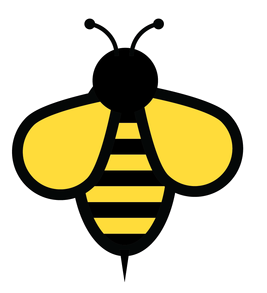
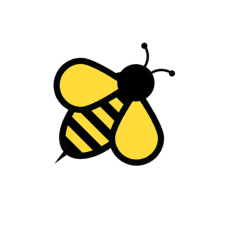
Debug

diff --git a/Frontend/src/UI Components/PostCreator.js b/Frontend/src/UI Components/PostCreator.js
@@ -4,6 +4,7 @@ import './PostCreator.css';
 export default function PostCreator(props) {
   const beeName = useRef('');
   const bzzBody = useRef('');
+  const refreshHome = useRef(false);
 
   const handleChange = e => {
     if (e.target.name === 'beeName') {
@@ -37,12 +38,12 @@ export default function PostCreator(props) {
         body: `beeName=${beeName.current}&bzzBody=${bzzBody.current}`,
       });
 
-      let wait500ms = new Promise(resolve => {
+      /* let wait500ms = new Promise(resolve => {
         setTimeout(() => resolve('done'), 500);
-      });
+      }); */
 
       if (request.ok) {
-        await wait500ms;
+        /* await wait500ms; */
         document.getElementById('grayedout').style.display = 'none';
       }
       // TODO: Else -> handle server error
@@ -80,8 +81,10 @@ export default function PostCreator(props) {
                 className='submit'
                 value='Post'
                 onClick={() => {
-                  props.onPostCreated(true);
-                  setTimeout(() => props.onPostCreated(false), 500)
+                  // When you click the button the state of the home component changes, and so does the
+                  // home components itself, showing the post that you posted. 
+                  props.onPostCreated(refreshHome.current);
+                  refreshHome.current = !refreshHome.current;
                 }}
               ></input>
             </div>

diff --git a/Frontend/src/components/Header.js b/Frontend/src/components/Header.js
@@ -11,7 +11,7 @@ export default function Header() {
         <img src={Logo} alt='Logo' id='logo' />
       </Link>
         <p id='pagetitle'>{currentPage}</p>
-      {currentPage === "Home" ? <h1 className="beeyou-title">Welcome on BeeYou</h1> : null}
+      {currentPage === "Home" ? <h1 className="beeyou-title">BeeYou</h1> : null}
       <Link to='/profile' id='profile-link' onClick={() => setCurrentPage('Profile')}>
         <p id='text'>
           Profile

diff --git a/Frontend/src/components/Header.css b/Frontend/src/components/Header.css
@@ -3,15 +3,16 @@
 header {
   width: 100%;
   height: 90px;
-  background: #EEEEEE;
+  background: #FFDC3A;
+  filter: saturate(150%);
   display: flex;
   align-items: center;
 }
 
 #logo {
-  width: 64px;
-  height: 64px;
-  transform: rotate(45deg);
+  width: 70px;
+  height: 70px;
+  filter: saturate(200%);
   object-fit: contain;
   margin-left: 80px;
 }

diff --git a/Frontend/src/components/Home.js b/Frontend/src/components/Home.js
@@ -10,7 +10,7 @@ async function getAllPosts() {
 
 export default function Home() {
   const [posts, setPosts] = useState([]);
-  const [hasToRefresh, setHasToRefresh] = useState(false);
+  const [hasToRefresh, setHasToRefresh] = useState(true);
 
   useEffect(() => {
     (async () => {

diff --git a/Frontend/src/UI Components/Post.css b/Frontend/src/UI Components/Post.css
@@ -12,6 +12,7 @@
 
 #bee-img {
   width: 48px;
+  filter: saturate(200%);
 }
 
 .user-info {
